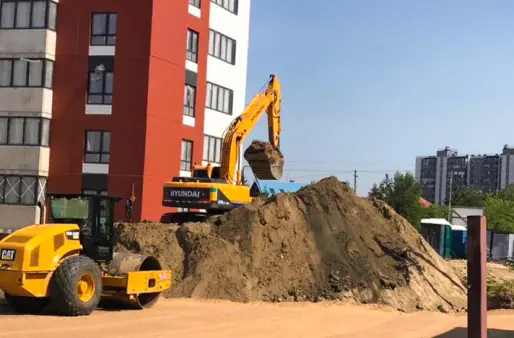
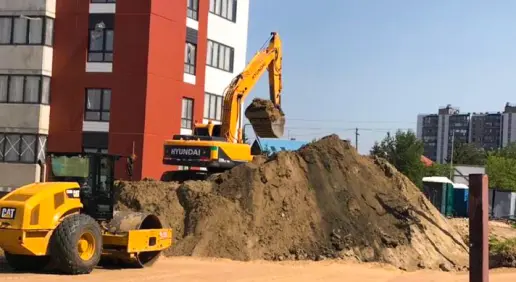
3x2 image (equipment) on mobile

diff --git a/index.html b/index.html
@@ -231,7 +231,7 @@
                 <button class="button3" onclick="openModal()">Заказать</button>
             </div>
             <div class="card">
-                <img class="image-card" src="assets/freight traffic/loading-into-the-car.webp">
+                <img class="image-card image mobile:2x1" src="assets/freight traffic/loading-into-the-car.webp">
                 <h3 class="card-title1">Догруз в машину</h3>
                 <button class="button3" onclick="openModal()">Заказать</button>
             </div>
@@ -256,7 +256,7 @@
         <div class="card-list">
             <div class="card-equipment">
                 <div class="card-image">
-                    <div class="image 9x7">
+                    <div class="image 9x7 mobile:3x2">
                         <img src="assets/rent equipment/High-altitude equipment.webp">
                     </div>
                 </div>
@@ -273,7 +273,7 @@
             </div>
             <div class="card-equipment">
                 <div class="card-image">
-                    <div class="image 9x7">
+                    <div class="image 9x7 mobile:3x2">
                         <img src="assets/rent equipment/Earthmoving equipment.webp">
                     </div>
                 </div>
@@ -293,7 +293,7 @@
             </div>
             <div class="card-equipment">
                 <div class="card-image">
-                    <div class="image 9x7">
+                    <div class="image 9x7 mobile:3x2">
                         <img src="assets/rent equipment/Loaders.webp">
                     </div>
                 </div>
@@ -313,7 +313,7 @@
             </div>
             <div class="card-equipment">
                 <div class="card-image">
-                    <div class="image 9x7">
+                    <div class="image 9x7 mobile:3x2">
                         <img src="assets/rent equipment/Transportation-equipment.webp">
                     </div>
                 </div>
@@ -334,7 +334,7 @@
             </div>
             <div class="card-equipment">
                 <div class="card-image">
-                    <div class="image 9x7">
+                    <div class="image 9x7 mobile:3x2">
                         <img src="assets/rent equipment/Road-equipment.webp">
                     </div>
                 </div>
@@ -354,7 +354,7 @@
             </div>
             <div class="card-equipment">
                 <div class="card-image">
-                    <div class="image 9x7">
+                    <div class="image 9x7 mobile:3x2">
                         <img src="assets/rent equipment/Municipal equipment.webp">
                     </div>
                 </div>
@@ -373,7 +373,7 @@
             </div>
             <div class="card-equipment">
                 <div class="card-image">
-                    <div class="image 9x7">
+                    <div class="image 9x7 mobile:3x2">
                         <img src="assets/rent equipment/Other-equipment.webp">
                     </div>
                 </div>
@@ -440,7 +440,7 @@
         </div>
         <div class="card-list">
             <div class="card">
-                <img class="image-card" src="assets/services/Excavation.webp">
+                <img class="image-card image mobile:2x1" src="assets/services/Excavation.webp">
                 <h3 class="card-title">Земляные работы</h3>
                 <div class="card-description">Комплекс работ по перемещению и изменению грунта на строительных участках.
                 </div>
@@ -454,28 +454,28 @@
                 <button class="button4" onclick="openModal()">Подробнее</button>
             </div>
             <div class="card">
-                <img class="image-card" src="assets/services/Rigging-work.webp">
+                <img class="image-card image mobile:2x1" src="assets/services/Rigging-work.webp">
                 <h3 class="card-title">Такелажные работы</h3>
                 <div class="card-description">Транспортировка и подъем грузов с использованием специального
                     оборудования.</div>
                 <button class="button4" onclick="openModal()">Подробнее</button>
             </div>
             <div class="card">
-                <img class="image-card" src="assets/services/Removal.webp">
+                <img class="image-card image mobile:2x1" src="assets/services/Removal.webp">
                 <h3 class="card-title">Уборка и вывоз</h3>
                 <div class="card-description">Уборка различных участков от мусора и отходов, включая их последующую
                     утилизацию.</div>
                 <button class="button4" onclick="openModal()">Подробнее</button>
             </div>
             <div class="card">
-                <img class="image-card" src="assets/services/Roadworks.webp">
+                <img class="image-card image mobile:2x1" src="assets/services/Roadworks.webp">
                 <h3 class="card-title">Дорожные работы</h3>
                 <div class="card-description">Формирование, обслуживание и восстановление транспортной инфраструктуры.
                 </div>
                 <button class="button4" onclick="openModal()">Подробнее</button>
             </div>
             <div class="card">
-                <img class="image-card" src="assets/services/Supply-of-materials.webp">
+                <img class="image-card image mobile:2x1" src="assets/services/Supply-of-materials.webp">
                 <h3 class="card-title">Поставка материалов</h3>
                 <div class="card-description">Приобретение и своевременная поставка строительных материалов на
                     строительную площадку.

diff --git a/components/image/image.css b/components/image/image.css
@@ -20,7 +20,7 @@
     left: 0;
     width: 100%;
     height: 100%;
-    object-fit: contain;
+    object-fit: cover;
     object-position: center;
 }
 
@@ -52,8 +52,16 @@
         padding-top: calc(9 / 16 * 100%);
     }
 
+    .image.mobile\:2x1::before {  
+        padding-top: calc(1 / 2 * 100%);
+    }
+
     .image.mobile\:3x2::before {  
         padding-top: calc(2 / 3 * 100%);
+    }
+
+    .image.mobile\:4x3::before {  
+        padding-top: calc(3 / 4 * 100%);
     }
 
     .image.mobile\:54x25::before { 

diff --git a/styles.css b/styles.css
@@ -1011,7 +1011,6 @@ hr {
         align-items: center;
         width: 100%;
         justify-content: space-between;
-        box-shadow: 0px 2px 8px rgba(17, 17, 30, 0.15);
     }
 
     .menu-items {
